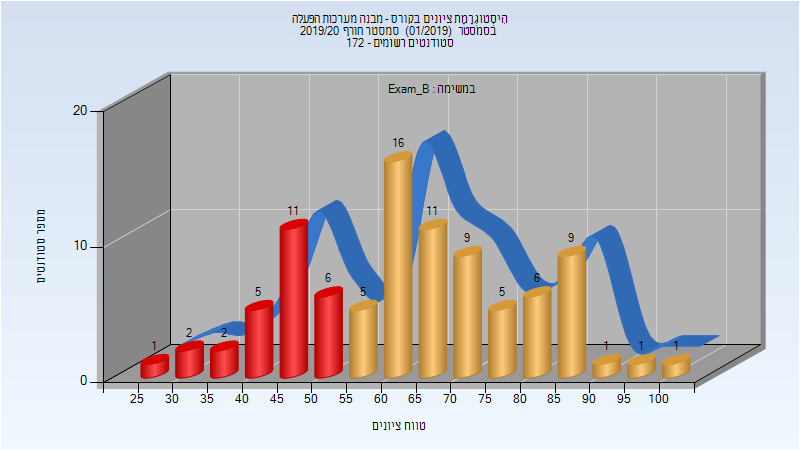
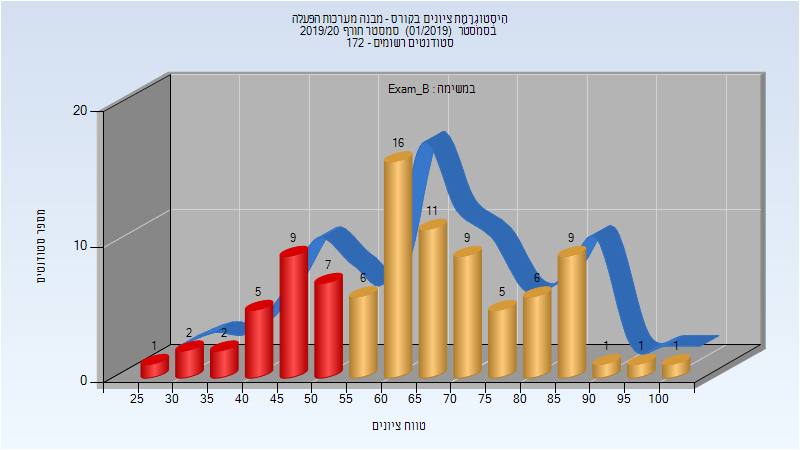
Deploy michael-maltsev/technion-histograms to github.com/michael-maltsev/technion-histograms.git:gh-pages

Changed region(s): [[0.3438, 0.4356, 0.5, 0.6844], [0.5, 0.5289, 0.5312, 0.56]]

diff --git a/046209/index.html b/046209/index.html
@@ -405,11 +405,11 @@
 <tbody>
 <tr>
 <td>91</td>
-<td>64/27</td>
-<td>70</td>
+<td>65/26</td>
+<td>71</td>
 <td>29</td>
 <td>100</td>
-<td>63.901</td>
+<td>64</td>
 <td>63</td>
 </tr>
 </tbody>
@@ -431,11 +431,11 @@
 <tbody>
 <tr>
 <td>91</td>
-<td>73/18</td>
-<td>80</td>
+<td>75/16</td>
+<td>82</td>
 <td>29</td>
 <td>100</td>
-<td>68.352</td>
+<td>68.659</td>
 <td>69</td>
 </tr>
 </tbody>
@@ -457,11 +457,11 @@
 <tbody>
 <tr>
 <td>155</td>
-<td>134/21</td>
-<td>86</td>
+<td>136/19</td>
+<td>88</td>
 <td>29</td>
 <td>100</td>
-<td>70.184</td>
+<td>70.368</td>
 <td>71</td>
 </tr>
 </tbody>

diff --git a/046209/README.md b/046209/README.md
@@ -123,7 +123,7 @@
 
 | סטודנטים | עברו/נכשלו | אחוז עוברים | ציון מינימלי | ציון מקסימלי | ממוצע | חציון |
 | ---- | ---- | ---- | ---- | ---- | ---- | ---- |
-| 91 | 64/27 | 70 | 29 | 100 | 63.901 | 63 |
+| 91 | 65/26 | 71 | 29 | 100 | 64 | 63 |
 
 ### סופי מועד ב'
 
@@ -131,7 +131,7 @@
 
 | סטודנטים | עברו/נכשלו | אחוז עוברים | ציון מינימלי | ציון מקסימלי | ממוצע | חציון |
 | ---- | ---- | ---- | ---- | ---- | ---- | ---- |
-| 91 | 73/18 | 80 | 29 | 100 | 68.352 | 69 |
+| 91 | 75/16 | 82 | 29 | 100 | 68.659 | 69 |
 
 ### סופי
 
@@ -139,5 +139,5 @@
 
 | סטודנטים | עברו/נכשלו | אחוז עוברים | ציון מינימלי | ציון מקסימלי | ממוצע | חציון |
 | ---- | ---- | ---- | ---- | ---- | ---- | ---- |
-| 155 | 134/21 | 86 | 29 | 100 | 70.184 | 71 |
+| 155 | 136/19 | 88 | 29 | 100 | 70.368 | 71 |
 
